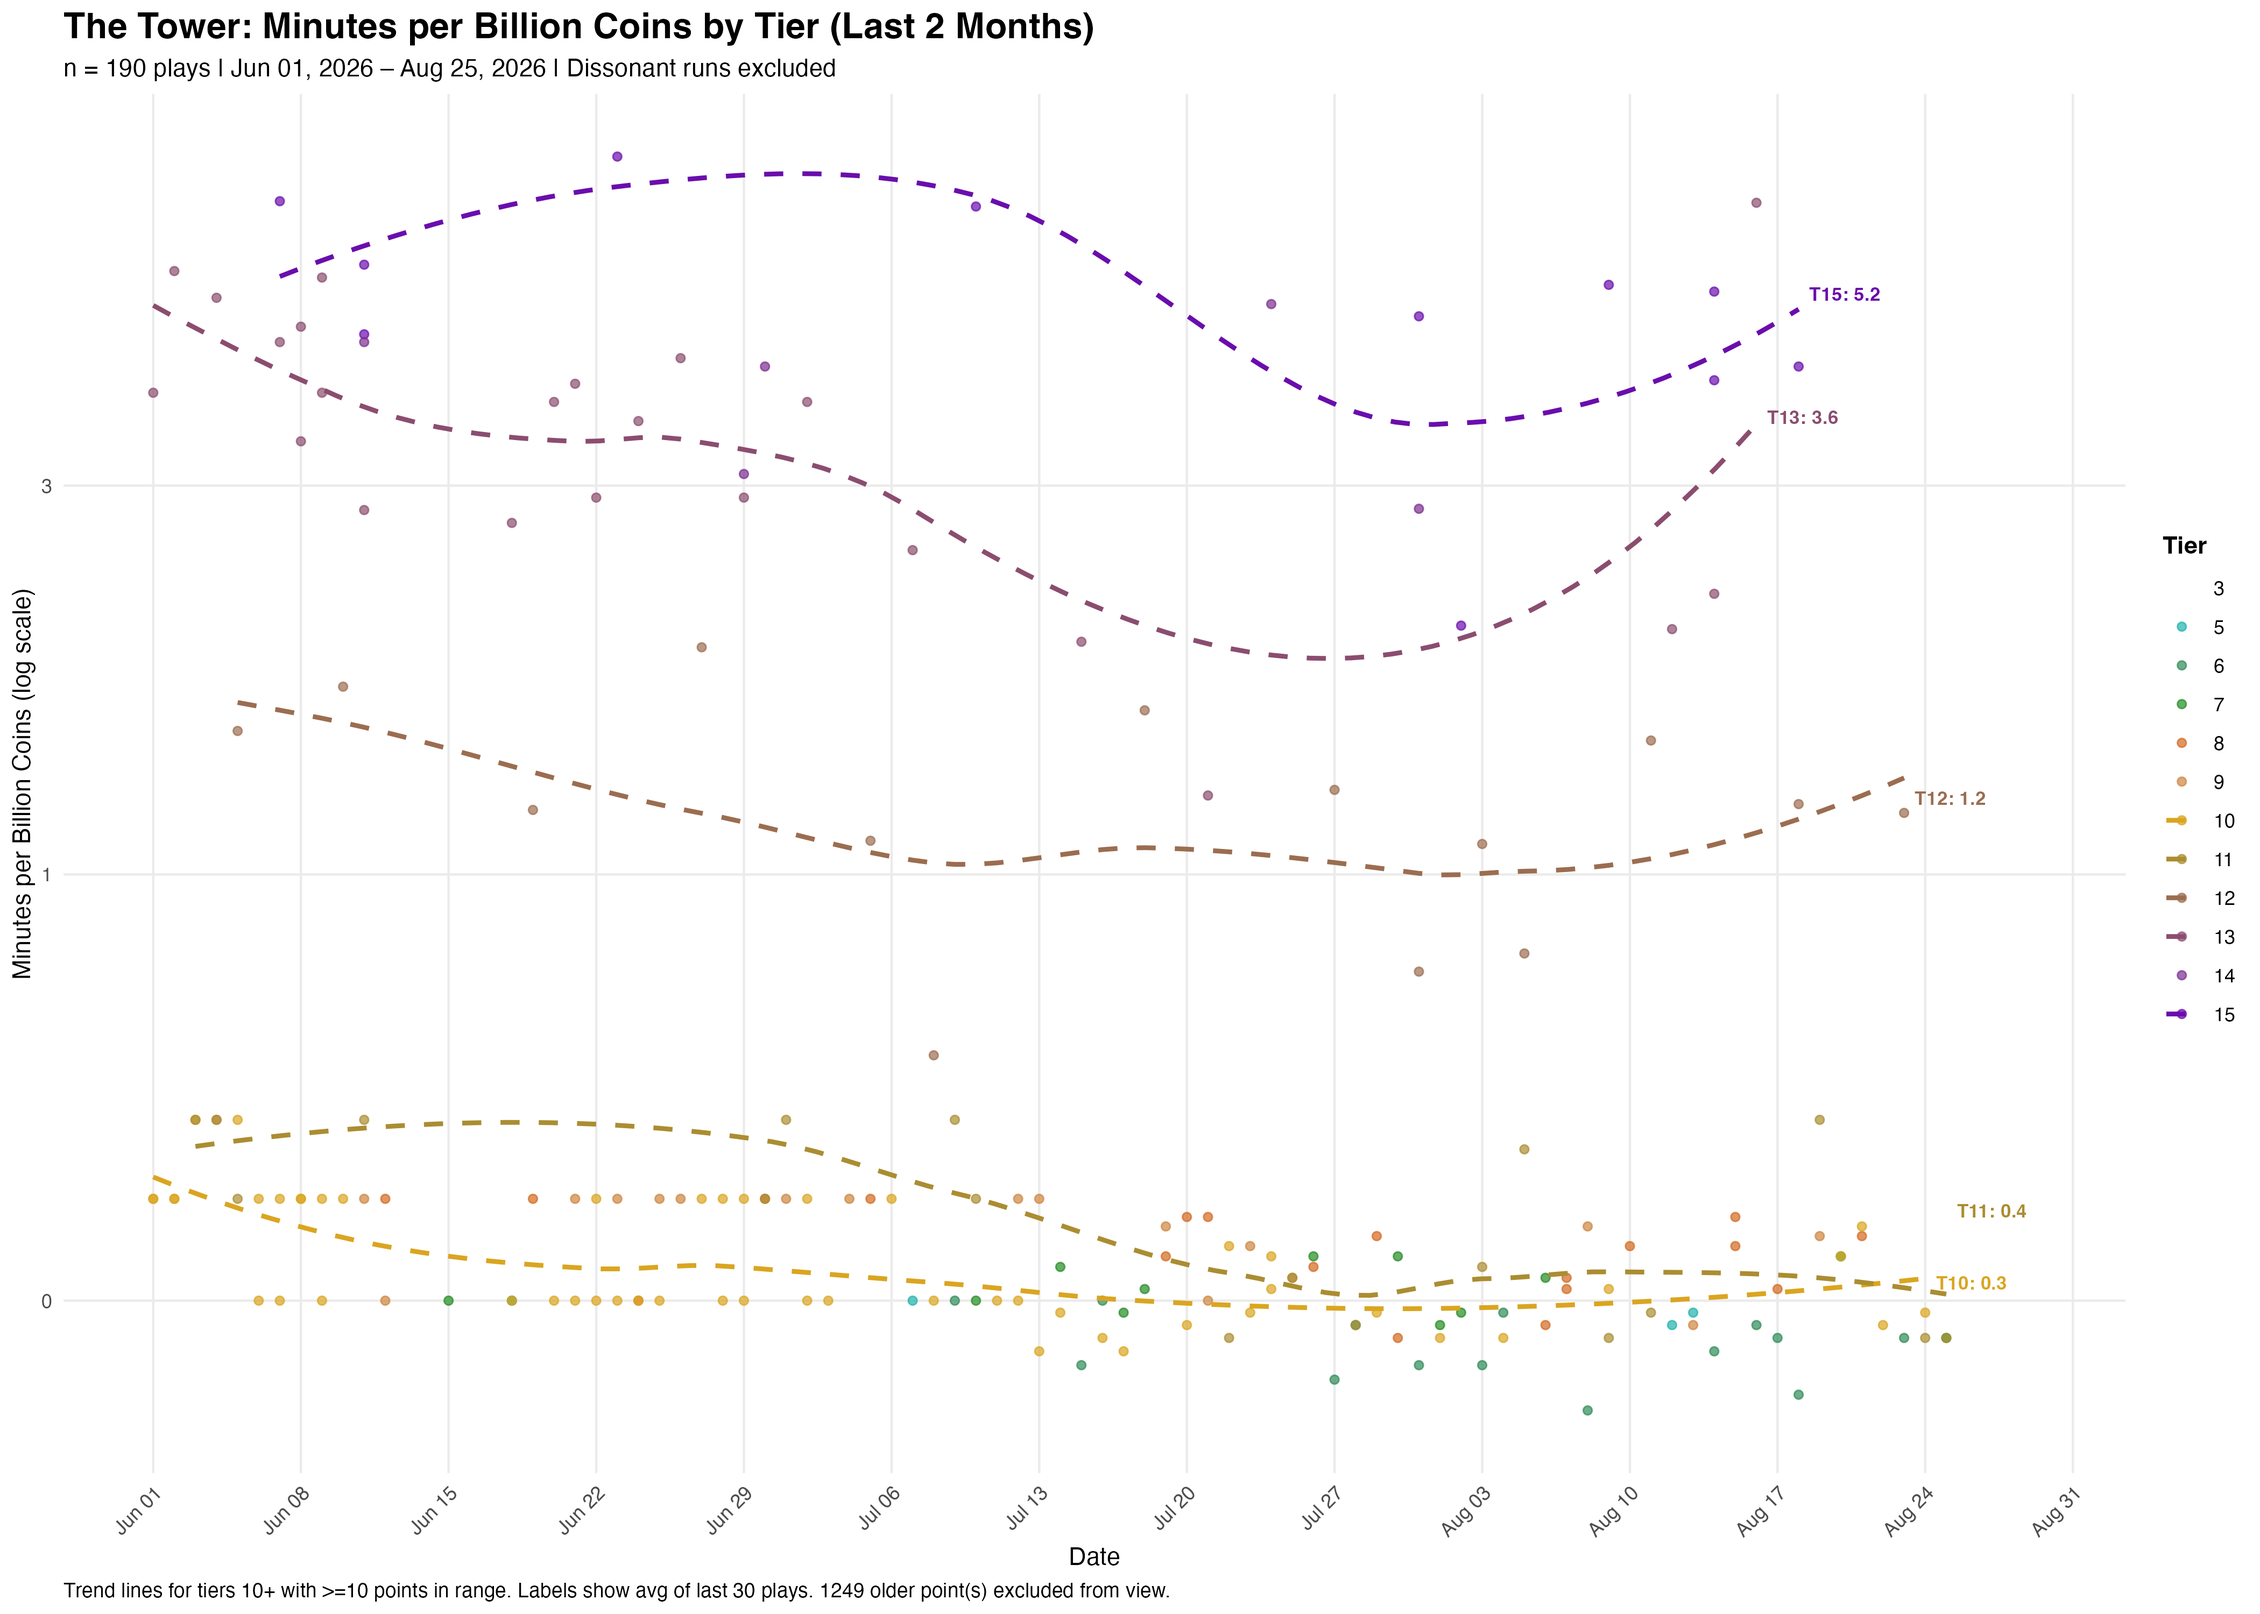
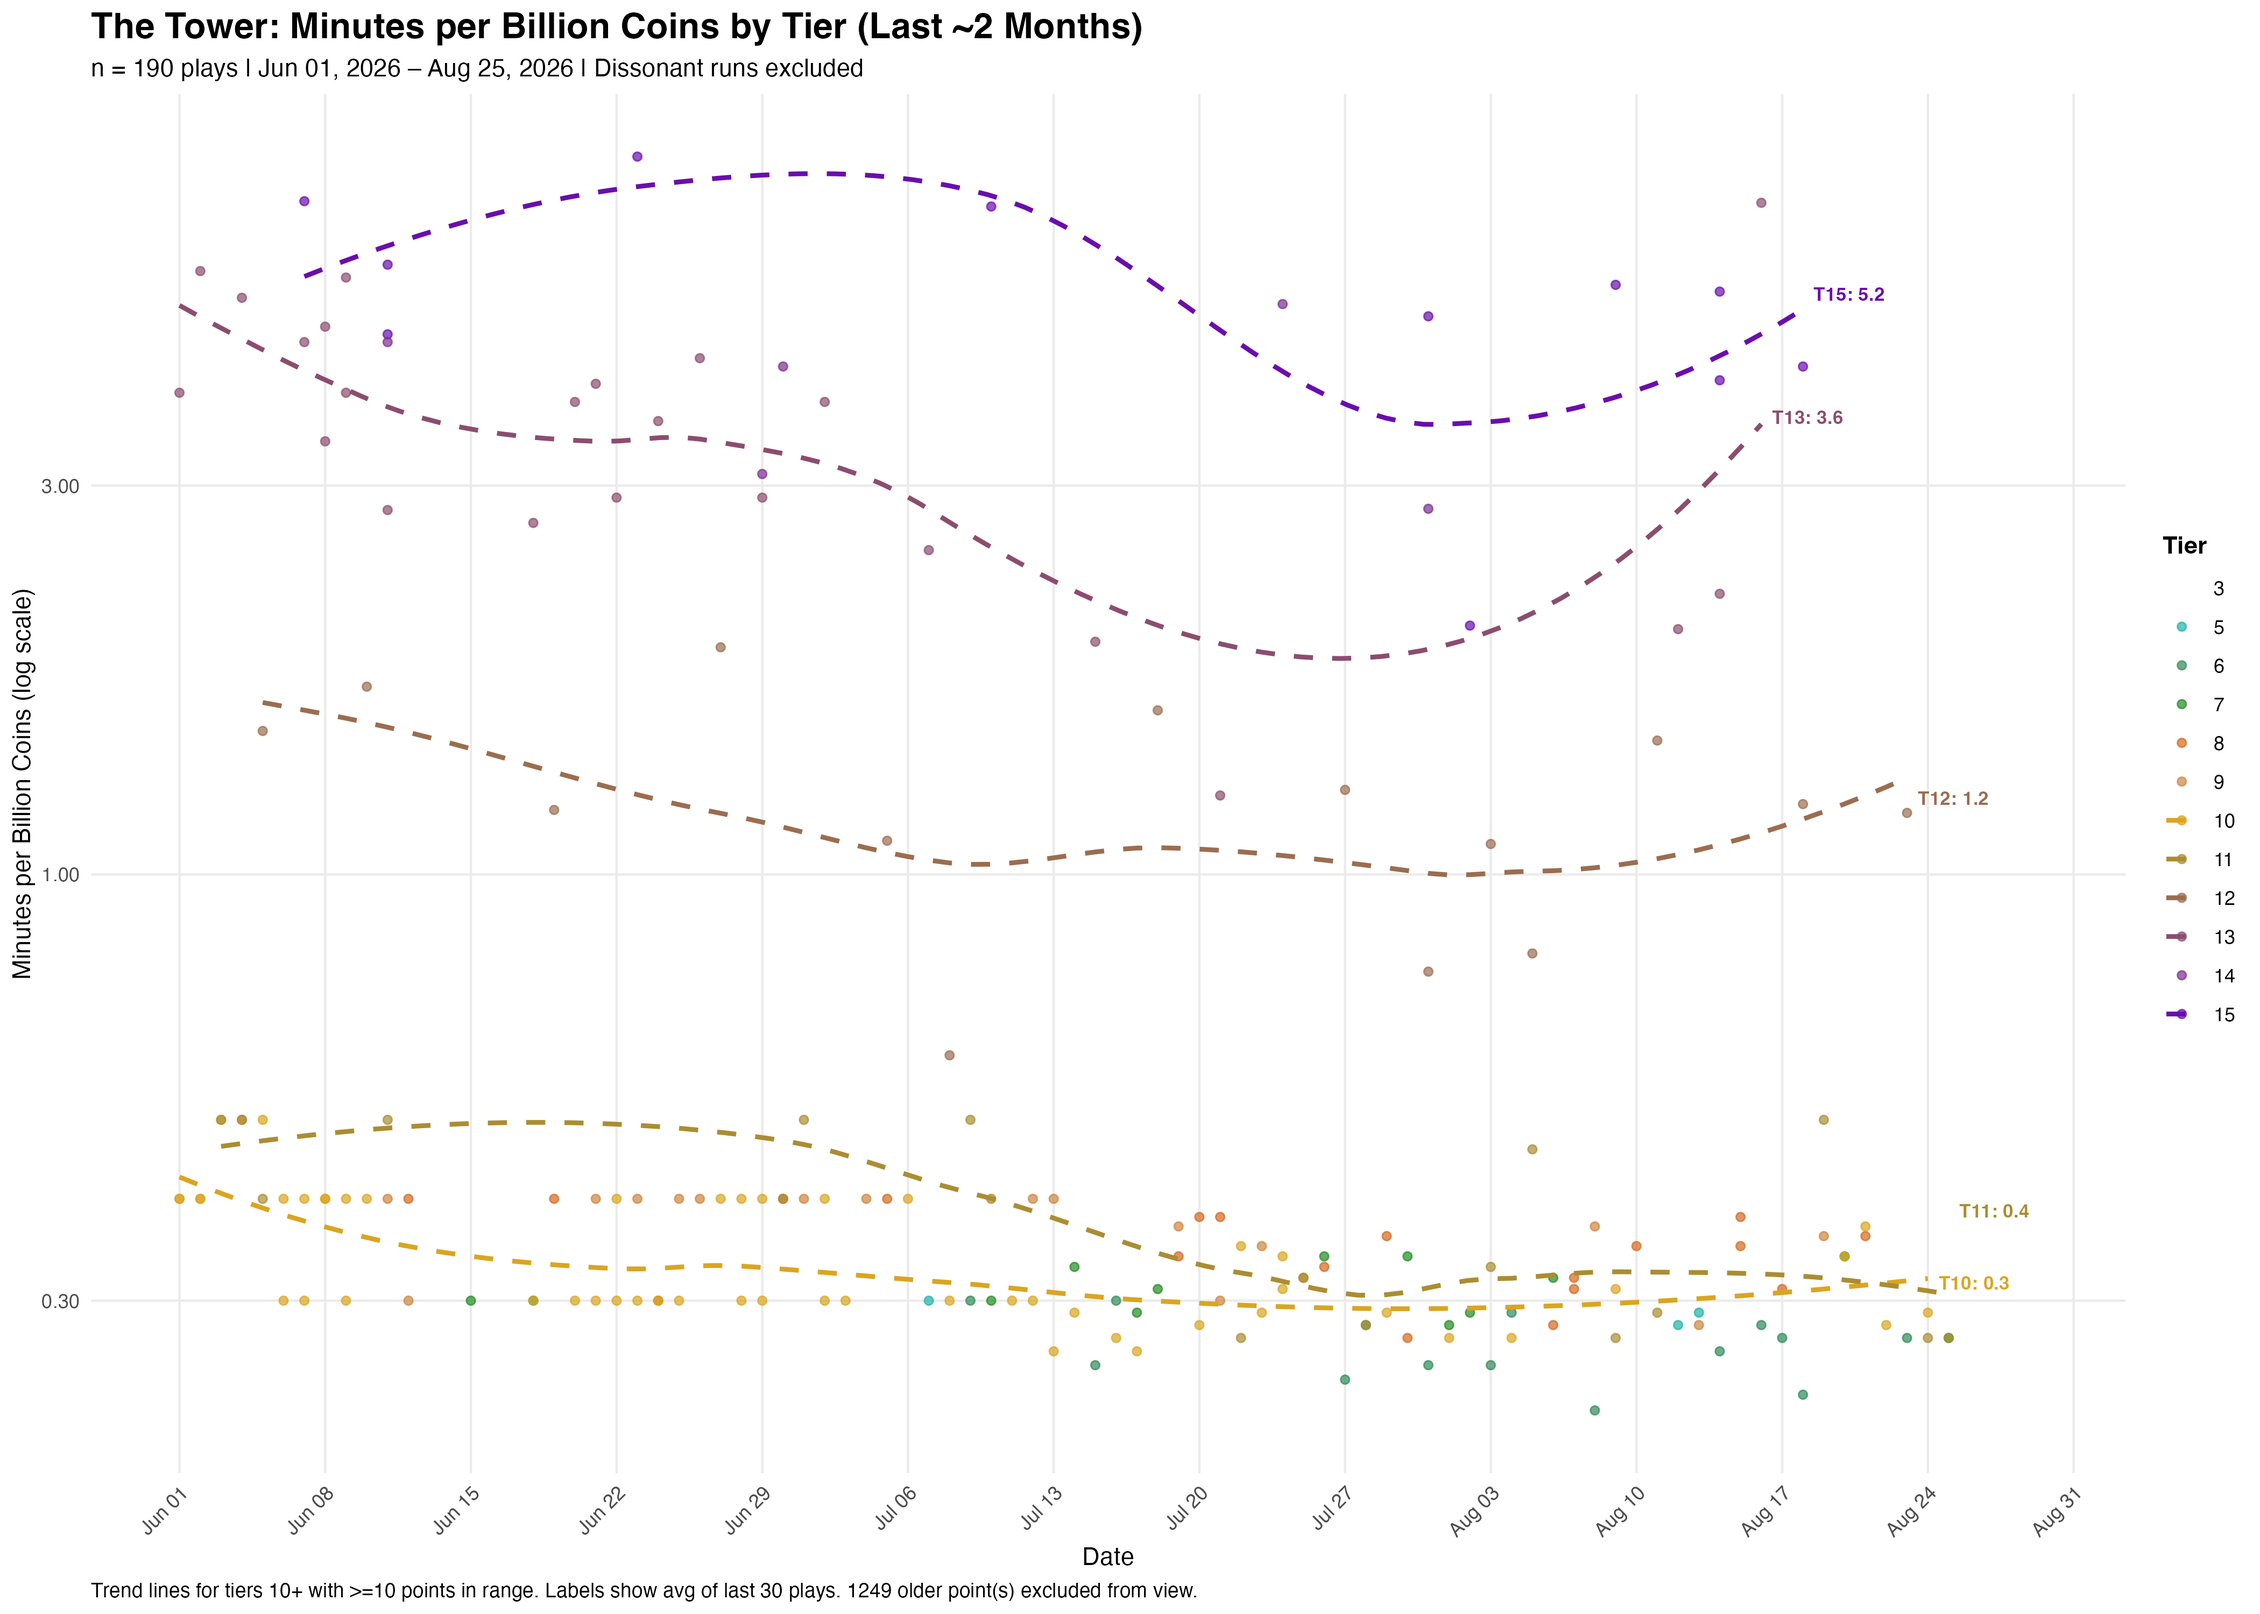
🐛 [games] The Tower: fix misleading log-scale Y-axis labels on 2mo chart

diff --git a/individuals/chicks/games/the-tower/README.md b/individuals/chicks/games/the-tower/README.md
@@ -64,7 +64,7 @@ Graphs generated from playlog data:
 
 ![Minutes per Billion Coins by Tier — Zoomed (< 20 min/B, since Sep 2025)](analysis/minutes-per-billion-by-tier-zoom.png)
 
-![Minutes per Billion Coins by Tier - last 2 months and log scale for coins](analysis/minutes-per-billion-by-tier-2mo.png)
+![Minutes per Billion Coins by Tier — last 2 months and log scale for coins](analysis/minutes-per-billion-by-tier-2mo.png)
 
 ![Time to Finish Levels](analysis/time-to-finish.png)
 
